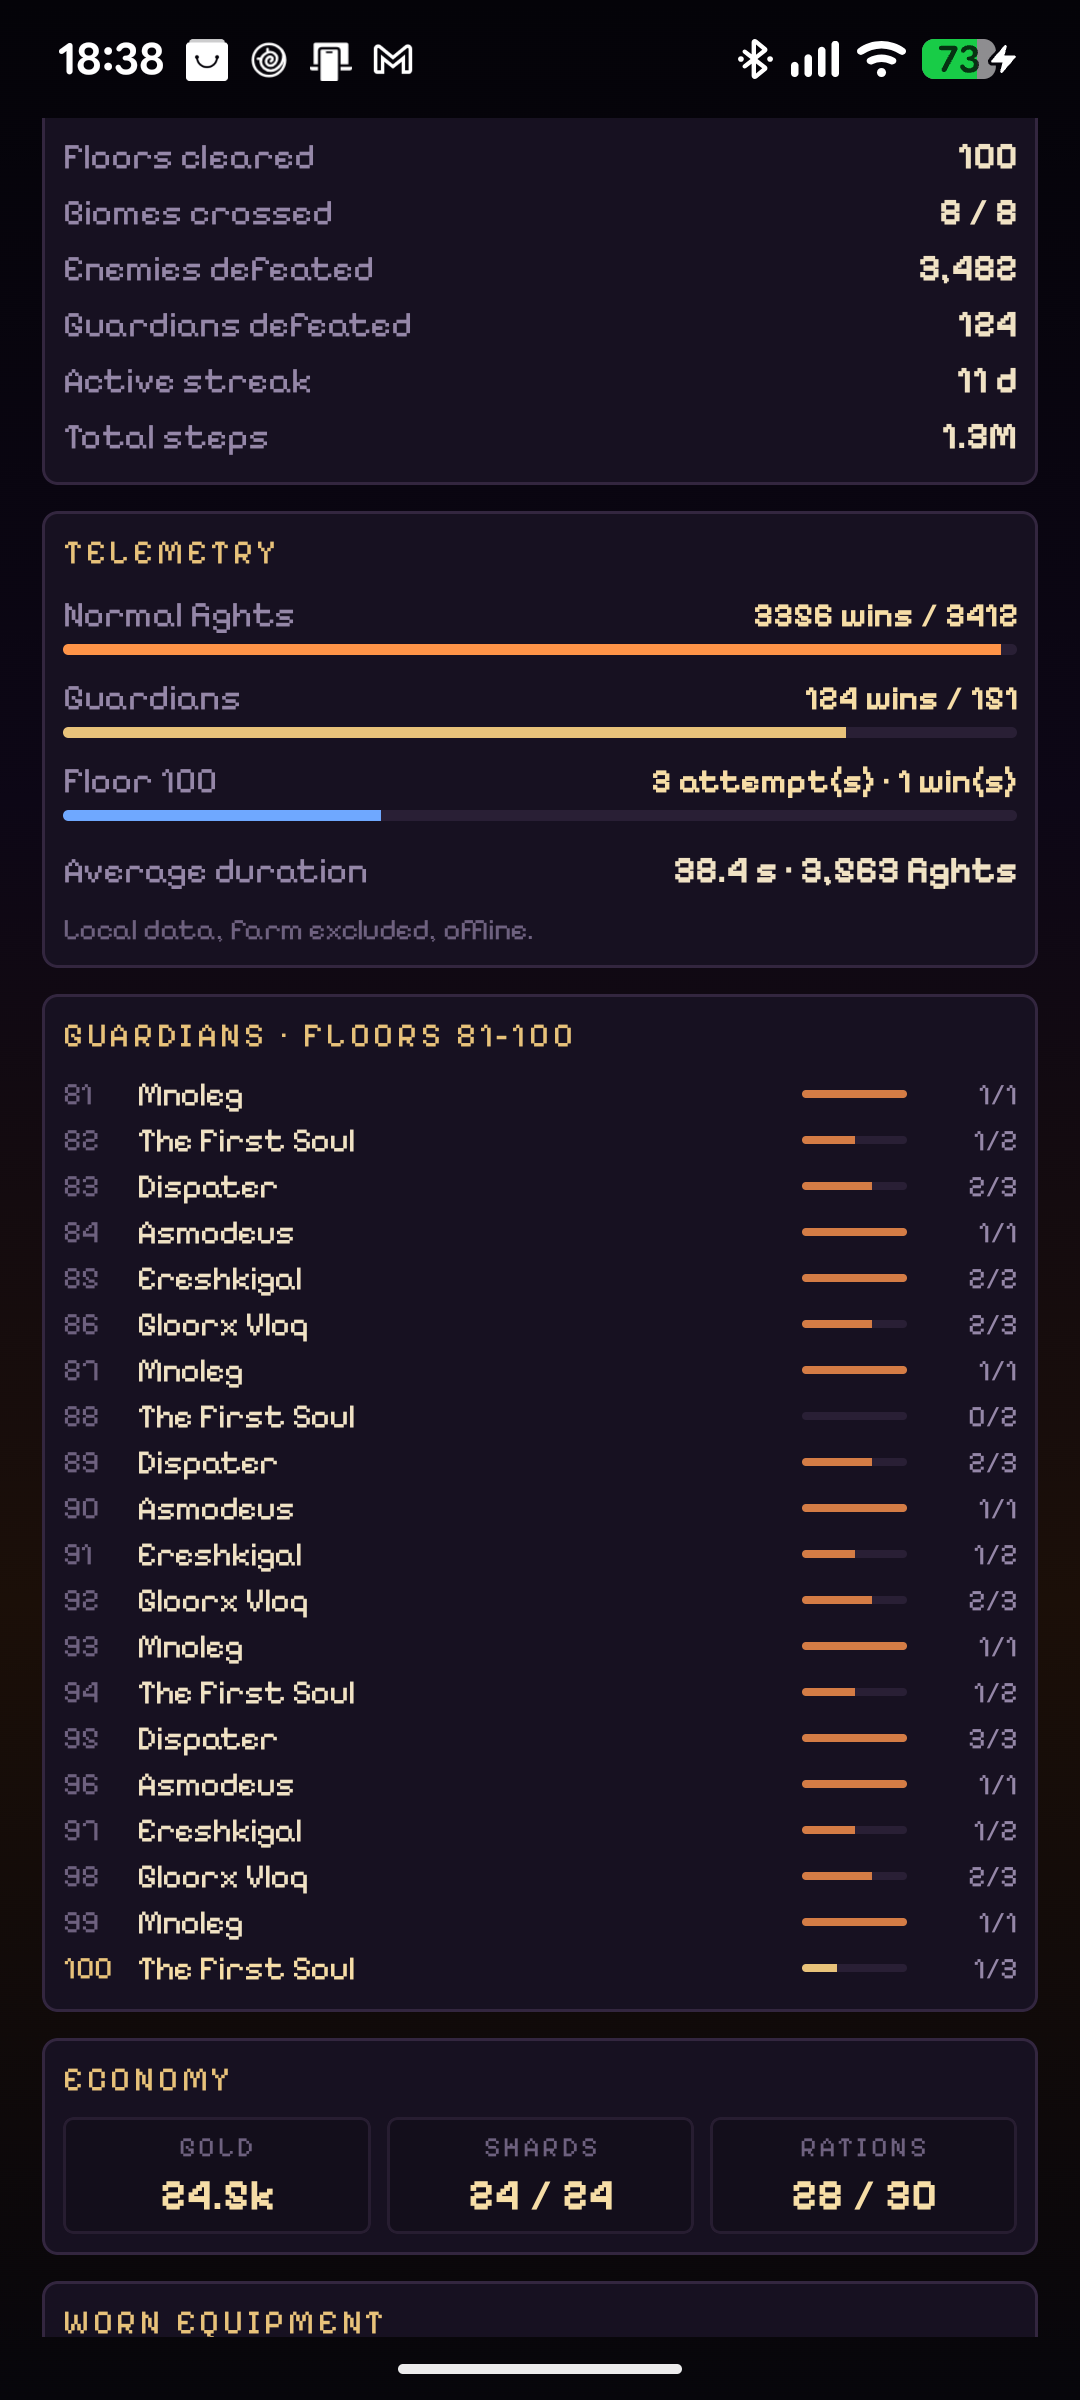
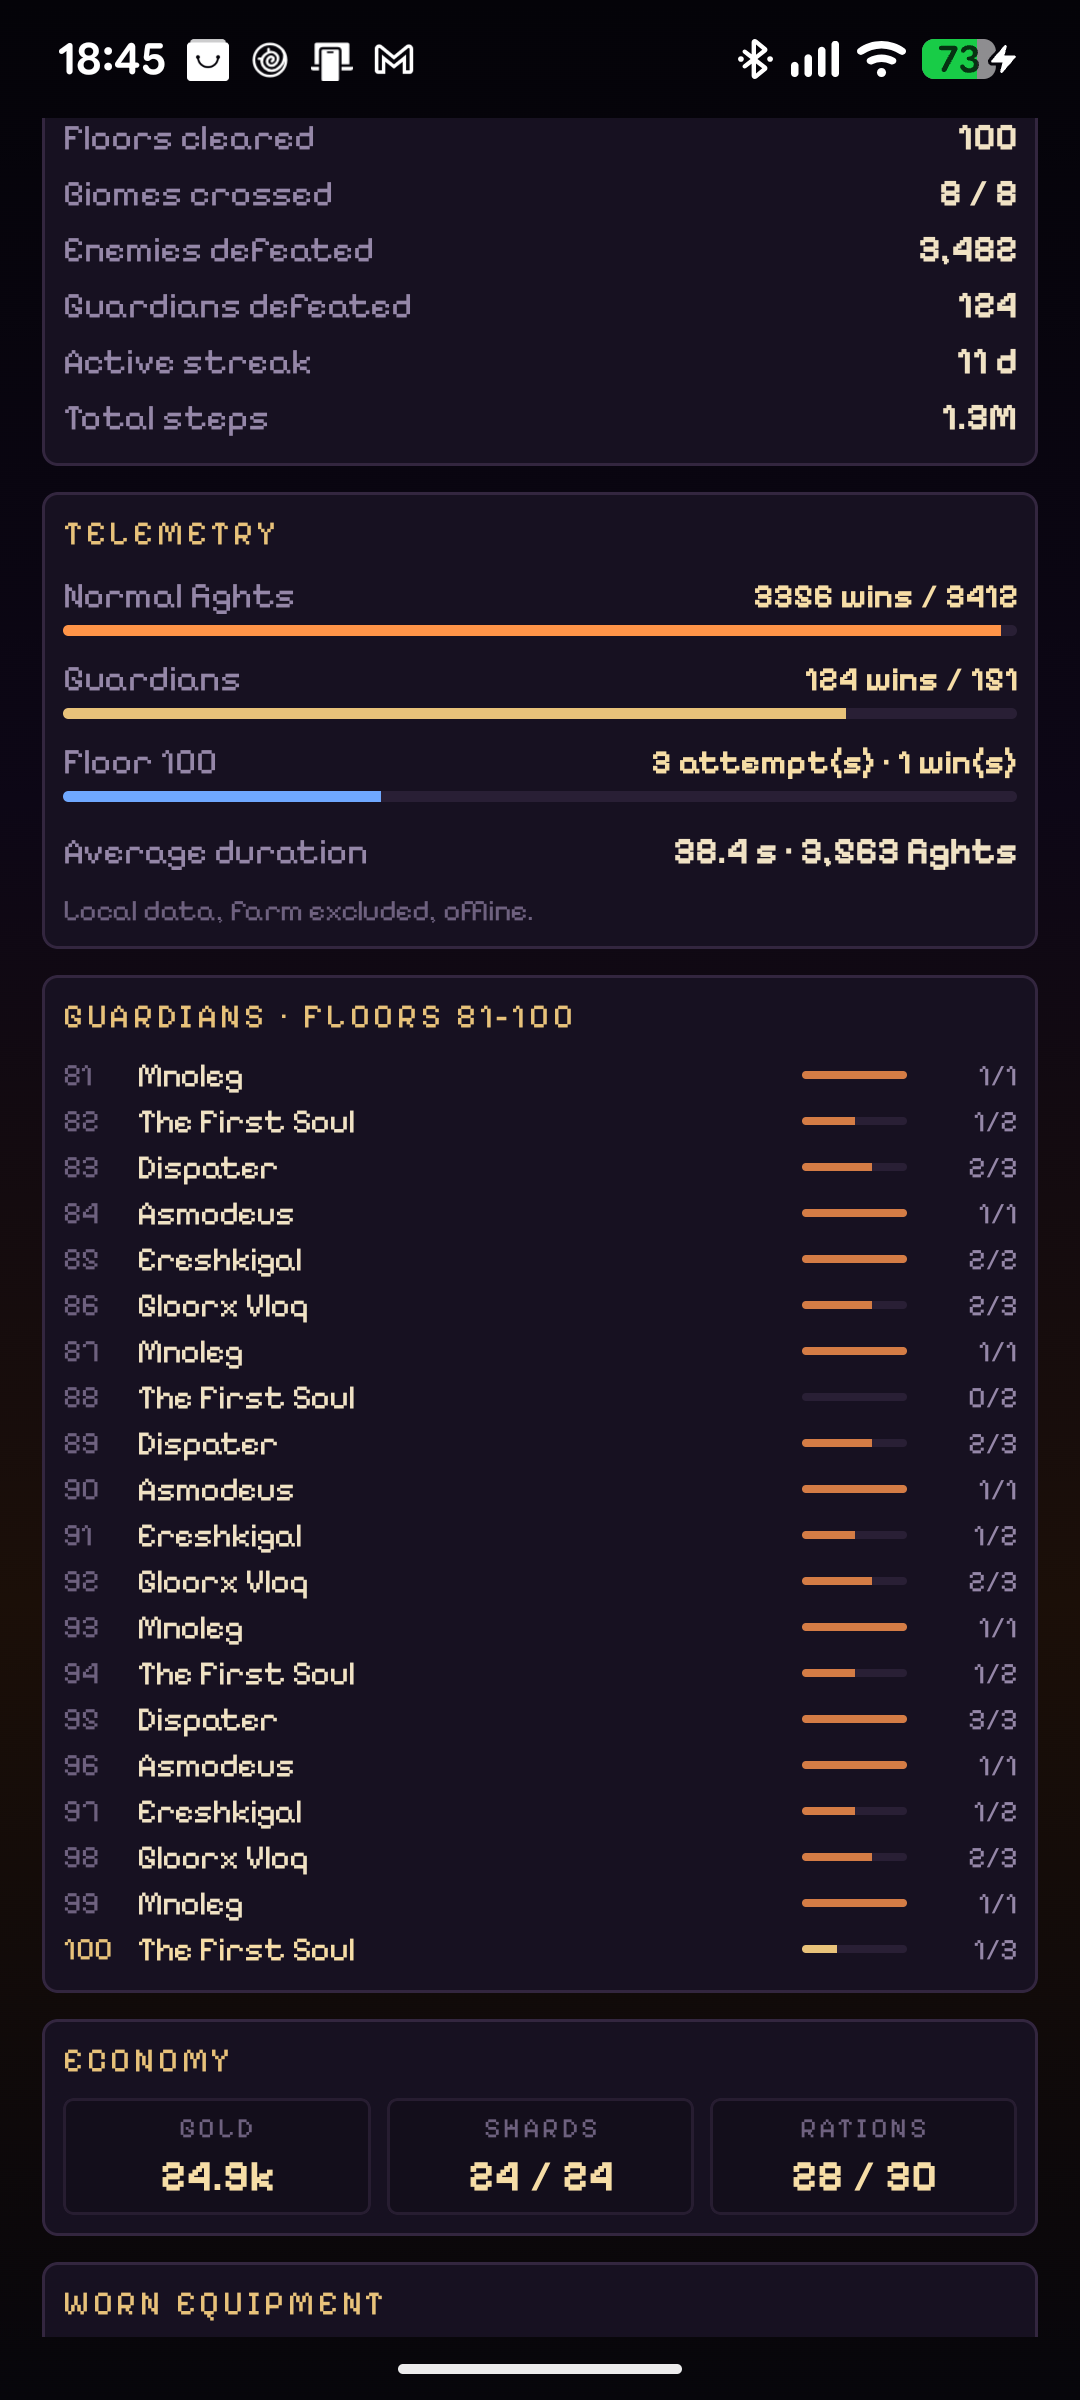
localisation : traduit les objets fusionnes en anglais

Changed region(s): [[0.0306, 0.0, 0.9778, 0.9688], [0.3361, 0.0, 0.3667, 0.0312]]

diff --git a/docs/captures/rapport-fin-0.21.0-en.html b/docs/captures/rapport-fin-0.21.0-en.html
@@ -32,7 +32,7 @@ footer{margin-top:34px;padding-top:14px;border-top:1px solid rgba(216,169,75,.16
 <main>
 <p class="eyebrow">March · end of the path · floor 100</p>
 <h1>THE THRONE IS BROKEN</h1>
-<p class="sub">THE FIRST SOUL HAS FALLEN · Report generated on November 24, 2026 at 6:38 PM</p>
+<p class="sub">THE FIRST SOUL HAS FALLEN · Report generated on November 24, 2026 at 6:45 PM</p>
 
 <h2>Hero</h2>
 <div class="grid">
@@ -65,7 +65,7 @@ footer{margin-top:34px;padding-top:14px;border-top:1px solid rgba(216,169,75,.16
 <h2>Worn equipment</h2>
 <table>
 <thead><tr><th>Slot</th><th>Item</th><th>Rarity</th><th>Stats</th></tr></thead>
-<tbody><tr><td>Talisman</td><td>Coffret-reliquaire fusionné · FRENZY</td><td>EPIC</td><td>+2 ATK · +44 HP · +2% SPD · +3% crit · +1.2 HP/s</td></tr><tr><td>Body</td><td>Chainmail · VAMPIRISM</td><td>RARE</td><td>+1 ATK · +90 HP · +5% SPD · +1% crit</td></tr><tr><td>Weapon</td><td>Hache gnoll fusionné fusionné fusionné · PRECISION</td><td>LEGENDARY</td><td>+82 ATK · +2 HP · +2% SPD · +12% crit</td></tr><tr><td>Boots</td><td>Moss Boots</td><td>RARE</td><td>+1 ATK · +1 HP · +14% SPD · +1% crit</td></tr><tr><td>Head</td><td>Artful Helm</td><td>RARE</td><td>+1 ATK · +74 HP · +1% SPD · +12% crit</td></tr><tr><td>Hands</td><td>Ember Gloves · BULWARK</td><td>RARE</td><td>+16 ATK · +1 HP · +1% SPD · +1% crit</td></tr></tbody>
+<tbody><tr><td>Talisman</td><td>Reliquary Casket (fused) · FRENZY</td><td>EPIC</td><td>+2 ATK · +44 HP · +2% SPD · +3% crit · +1.2 HP/s</td></tr><tr><td>Body</td><td>Chainmail · VAMPIRISM</td><td>RARE</td><td>+1 ATK · +90 HP · +5% SPD · +1% crit</td></tr><tr><td>Weapon</td><td>Gnoll Axe (fused ×3) · PRECISION</td><td>LEGENDARY</td><td>+82 ATK · +2 HP · +2% SPD · +12% crit</td></tr><tr><td>Boots</td><td>Moss Boots</td><td>RARE</td><td>+1 ATK · +1 HP · +14% SPD · +1% crit</td></tr><tr><td>Head</td><td>Artful Helm</td><td>RARE</td><td>+1 ATK · +74 HP · +1% SPD · +12% crit</td></tr><tr><td>Hands</td><td>Ember Gloves · BULWARK</td><td>RARE</td><td>+16 ATK · +1 HP · +1% SPD · +1% crit</td></tr></tbody>
 </table>
 
 <h2>Guardians · floors 81-100</h2>
@@ -76,7 +76,7 @@ footer{margin-top:34px;padding-top:14px;border-top:1px solid rgba(216,169,75,.16
 
 <h2>Collections</h2>
 <div class="grid">
-<div class="card"><span>Creatures</span><b>36 / 110</b></div>
+<div class="card"><span>Creatures</span><b>37 / 110</b></div>
 <div class="card"><span>Guardians defeated</span><b>5 / 35</b></div>
 <div class="card"><span>Sets</span><b>0 / 11</b></div>
 </div>

diff --git a/android/app/src/main/java/com/brunothesatellite/idlesteprpg/ui/ContentText.kt b/android/app/src/main/java/com/brunothesatellite/idlesteprpg/ui/ContentText.kt
@@ -148,19 +148,39 @@ fun creatureDisplay(res: Resources, raw: String): String {
     return out.toString()
 }
 
+private const val FUSED_SUFFIX = " fusionné"
+
+/** Sépare un nom d'objet de ses suffixes de fusion successifs. */
+internal fun splitFusedName(value: String): Pair<String, Int> {
+    var base = value
+    var fused = 0
+    while (base.endsWith(FUSED_SUFFIX, ignoreCase = true)) {
+        base = base.dropLast(FUSED_SUFFIX.length)
+        fused++
+    }
+    return base to fused
+}
+
+private fun localizedItemBase(res: Resources, raw: String): String {
+    val (base, fused) = splitFusedName(raw)
+    val localized = itemBaseName(res, base)
+    if (fused == 0) return localized
+    return localized + if (fused > 1) " (fused ×$fused)" else " (fused)"
+}
+
 fun itemNameFrom(res: Resources, raw: String): String {
     if (isFrench(res)) return raw
     val base = raw.substringBefore(" · ")
     val suffix = raw.substringAfter(" · ", "")
-    val localizedBase = itemBaseName(res, base)
+    val localizedBase = localizedItemBase(res, base)
     if (suffix.isBlank()) return localizedBase
     val effect = FRENCH_EFFECTS[suffix]
-    return if (effect != null) localizedBase + " · " + effectLabel(res, effect) else raw
+    return localizedBase + " · " + (effect?.let { effectLabel(res, it) } ?: suffix)
 }
 
 fun itemName(res: Resources, name: String, effect: String): String {
     if (isFrench(res)) return name
-    val localizedBase = itemBaseName(res, name.substringBefore(" · "))
+    val localizedBase = localizedItemBase(res, name.substringBefore(" · "))
     return if (effect.isBlank()) localizedBase else localizedBase + " · " + effectLabel(res, effect)
 }
 

diff --git a/android/app/src/test/java/com/brunothesatellite/idlesteprpg/ContentTextTest.kt b/android/app/src/test/java/com/brunothesatellite/idlesteprpg/ContentTextTest.kt
@@ -1,0 +1,15 @@
+package com.brunothesatellite.idlesteprpg
+
+import com.brunothesatellite.idlesteprpg.ui.splitFusedName
+import org.junit.Assert.assertEquals
+import org.junit.Test
+
+class ContentTextTest {
+
+    @Test
+    fun splitsRepeatedFusedSuffixes() {
+        assertEquals("Hache gnoll" to 3, splitFusedName("Hache gnoll fusionné fusionné fusionné"))
+        assertEquals("Coffret-reliquaire" to 1, splitFusedName("Coffret-reliquaire Fusionné"))
+        assertEquals("Lame runique" to 0, splitFusedName("Lame runique"))
+    }
+}

diff --git a/CHANGELOG.md b/CHANGELOG.md
@@ -4,6 +4,7 @@
 - **Lot 10 — écran de fin enrichi** : diorama avec la vraie statue du palier 100, l'aura dorée du héros et le gardien final déchu ; dossier du héros, progression, télémétrie, gardiens 81–100, économie, équipement porté, collections et jalons.
 - **Export HTML** : rapport autonome (mêmes données, fonte pixel embarquée) enregistré via le sélecteur de fichiers Android. Correction du fuseau horaire et de la mise en page de l'équipement ; validé sur appareil.
 - **Captures** : écran de fin FR et EN dans `docs/captures/`, avec le rapport HTML exporté.
+- **Localisation** : les objets fusionnés sont traduits en anglais (`Gnoll Axe (fused ×3)`) au lieu de laisser le nom français.
 - **Aperçu debug** : bouton **Aperçu de la fin** dans les réglages des builds debug, pour relire l'écran sans attendre le palier 100.
 - **Tests** : **148 / 148**, lint OK.
 - **Build** : `versionCode 58`, `versionName 0.21.0`. Aucune release GitHub.
